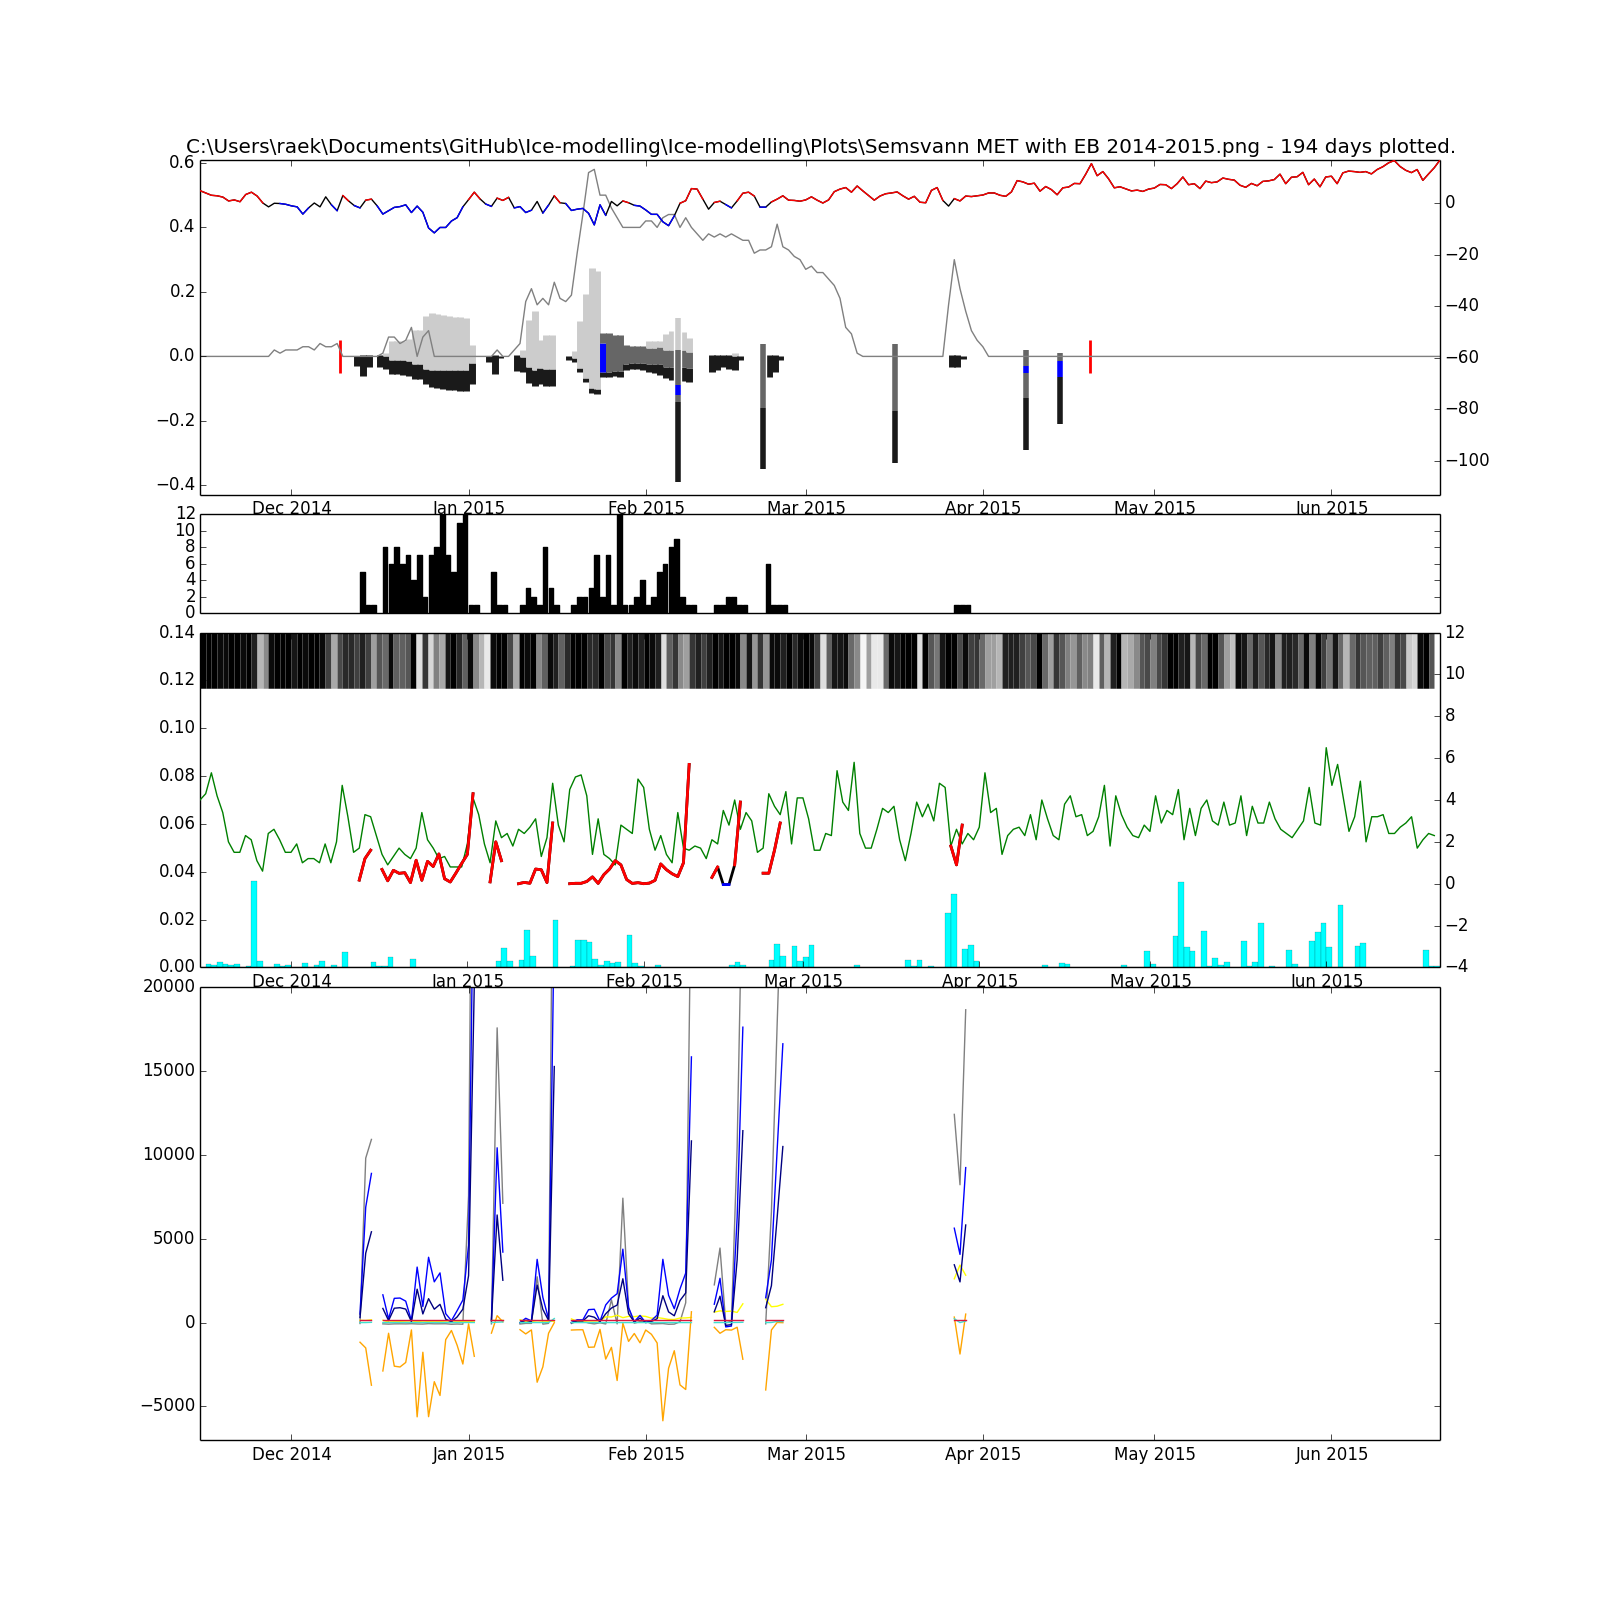
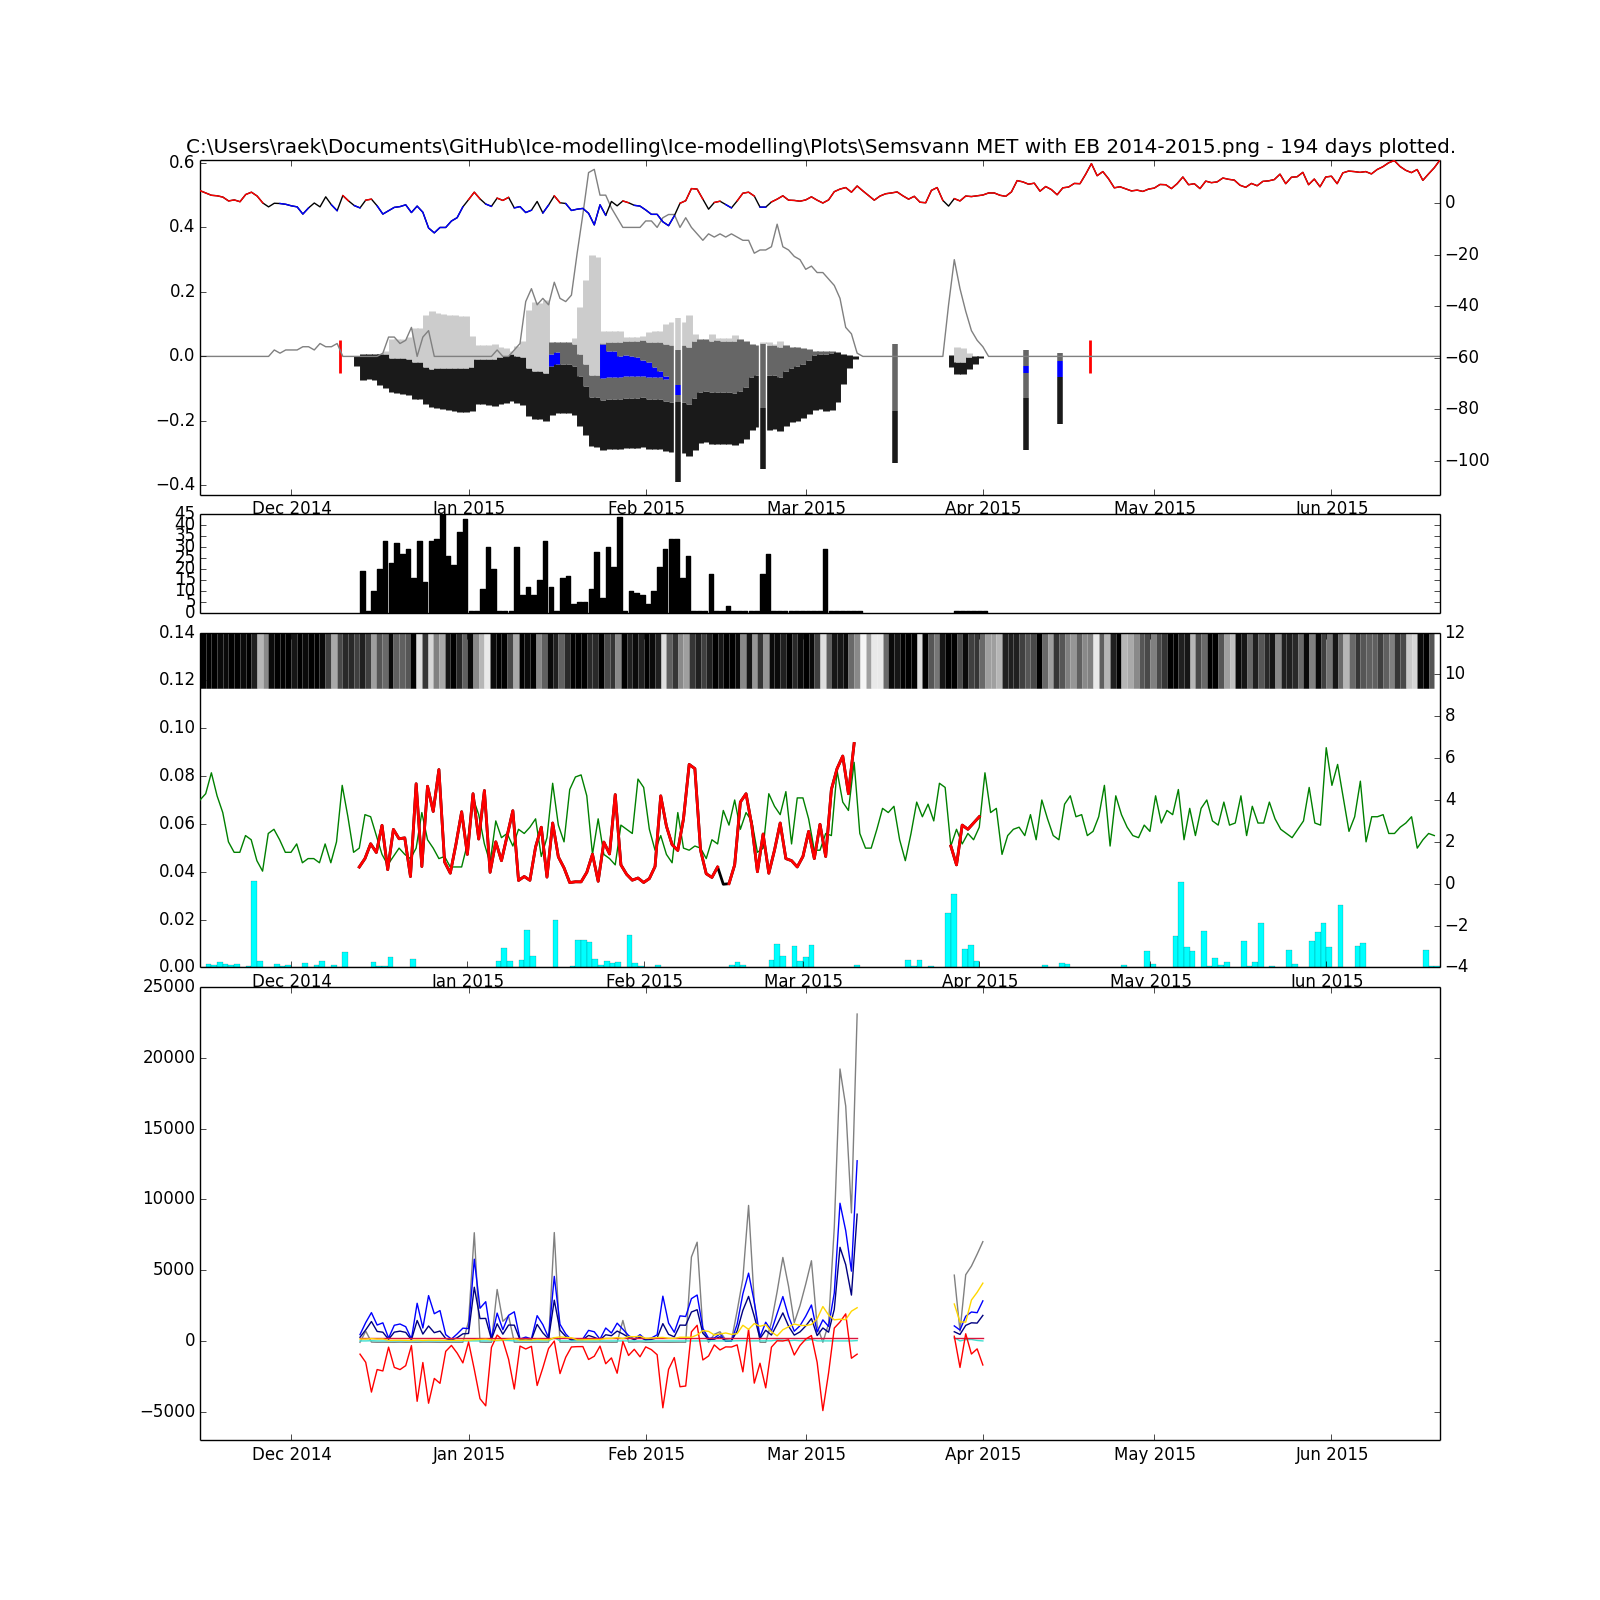
plotting buggy EB modelling

diff --git a/Ice-modelling/doenergybalance.py b/Ice-modelling/doenergybalance.py
@@ -110,6 +110,9 @@ def energy_balance_from_temp_sfc(
 
     EB = S + (L_a - L_t) + (H + LE) + G + R         # - CC
 
+    if EB > 20000.:
+        print("{0}: EB > 20000.".format(date))
+
     energy_balance.add_short_wave(S, s_inn, albedo, albedo_prim, age_factor_tau)
     energy_balance.add_long_wave(L_a, L_t)
     energy_balance.add_sensible_and_latent_heat(H, LE)
@@ -479,11 +482,12 @@ def get_sensible_and_latent_heat(temp_atm, temp_surface, time_span_in_sec, press
     zh = 0.0002                 # varme og damp ruhets
     k = const.von_karmans_const  # von Karmans konstant
 
-    common = k**2/( log( (zu-d)/zm ,10) )**2
+    # common = k**2/( log((zu-d)/zm,10) )**2
+    common = k**2/(log( (zu-d)/zm ))**2
 
     # Sensible heat exchange
-    H = c_air*rho_air*common*wind*(temp_atm-temp_surface) # Sensible heat. Positivt hvis temp_surface < temp_atm
-    H = H * time_span_in_sec
+    H = c_air*rho_air*common*wind*(temp_atm-temp_surface)  # Sensible heat. Positivt hvis temp_surface < temp_atm
+    H *= time_span_in_sec
 
     # Latent heat exchange
     # e_a and e_s [kPa] are saturation vapor pressure in the atmosphere and at the surface respectively.
@@ -505,6 +509,9 @@ def get_sensible_and_latent_heat(temp_atm, temp_surface, time_span_in_sec, press
         LE = lambda_V * 0.622 * (rho_air/pressure_atm) * common * wind *(ea-es)
 
     LE = LE * time_span_in_sec
+
+    if H > 15000. or LE > 15000.:
+        print("{0}: H or LE > 15000 kJ/m2/day")
 
     return H, LE
 

diff --git a/Ice-modelling/makePlots.py b/Ice-modelling/makePlots.py
@@ -255,8 +255,6 @@ def plotIcecoverEB(icecover, energy_balance, observed_ice, date, temp, snotot, f
     R = []
     G = []
 
-
-
     if energy_balance[0].date > date[0]:
         i = 0
         while energy_balance[0].date > date[i]:
@@ -354,13 +352,13 @@ def plotIcecoverEB(icecover, energy_balance, observed_ice, date, temp, snotot, f
     #############################
     pplt.subplot2grid((11, 1), (7, 0), rowspan=4)
     plb.plot(date, EB, "gray")
-    plb.plot(date, S, "yellow")
-    plb.plot(date, L, "orange")
     plb.plot(date, H, "blue")
     plb.plot(date, LE, "navy")
     plb.plot(date, R, "turquoise")
     plb.plot(date, G, "crimson")
-    plb.ylim(-7000, 20000)
+    plb.plot(date, L, "red")
+    plb.plot(date, S, "gold")
+    plb.ylim(-7000, 25000)
     plb.xlim(date[0], date[-1])
      #fig.tight_layout()
 

diff --git a/Ice-modelling/runIceThickness.py b/Ice-modelling/runIceThickness.py
@@ -427,8 +427,11 @@ def runStorvannetHammerfest(startDate, endDate):
 
 if __name__ == "__main__":
 
-
+    runSemsvannEB('2012-11-15', '2013-06-20')
+    runSemsvannEB('2013-11-15', '2014-06-20')
     runSemsvannEB('2014-11-15', '2015-06-20')
+
+
 
     runOrovannEB('2014-11-15', '2015-06-20')
 
